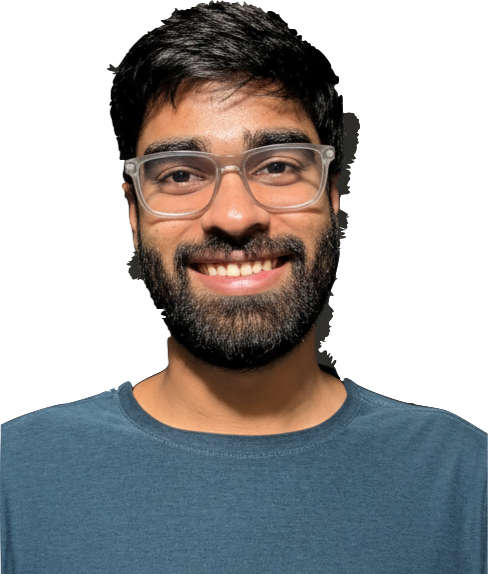
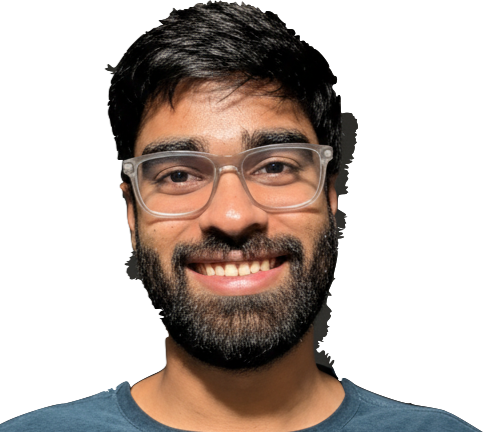
Updated image size

diff --git a/index.html b/index.html
@@ -26,8 +26,8 @@
 </head>
 
 <body>
-  
-  <!-- 
+
+  <!--
     Ref for particles:- https://vincentgarreau.com/particles.js/
   -->
 
@@ -48,7 +48,7 @@
         <div class="sidebar-info">
 
           <figure class="avatar-box">
-            <img src="./assets/images/my-image.png?v=2" alt="Anant Gupta" width="80">
+            <img src="./assets/images/my-image.png?v=3" alt="Anant Gupta" width="80">
           </figure>
 
           <div class="info-content">
@@ -982,8 +982,8 @@
 
             <h3 class="h3 form-title">Contact Form</h3>
 
-            <form 
-              action="https://docs.google.com/forms/d/e/1FAIpQLSeFbZCghXLqqVEtawpsh4CaiyhFer93LoKePsMSuY09WXQTLw/formResponse" 
+            <form
+              action="https://docs.google.com/forms/d/e/1FAIpQLSeFbZCghXLqqVEtawpsh4CaiyhFer93LoKePsMSuY09WXQTLw/formResponse"
               class="form" target="_blank"
               data-form>
 
